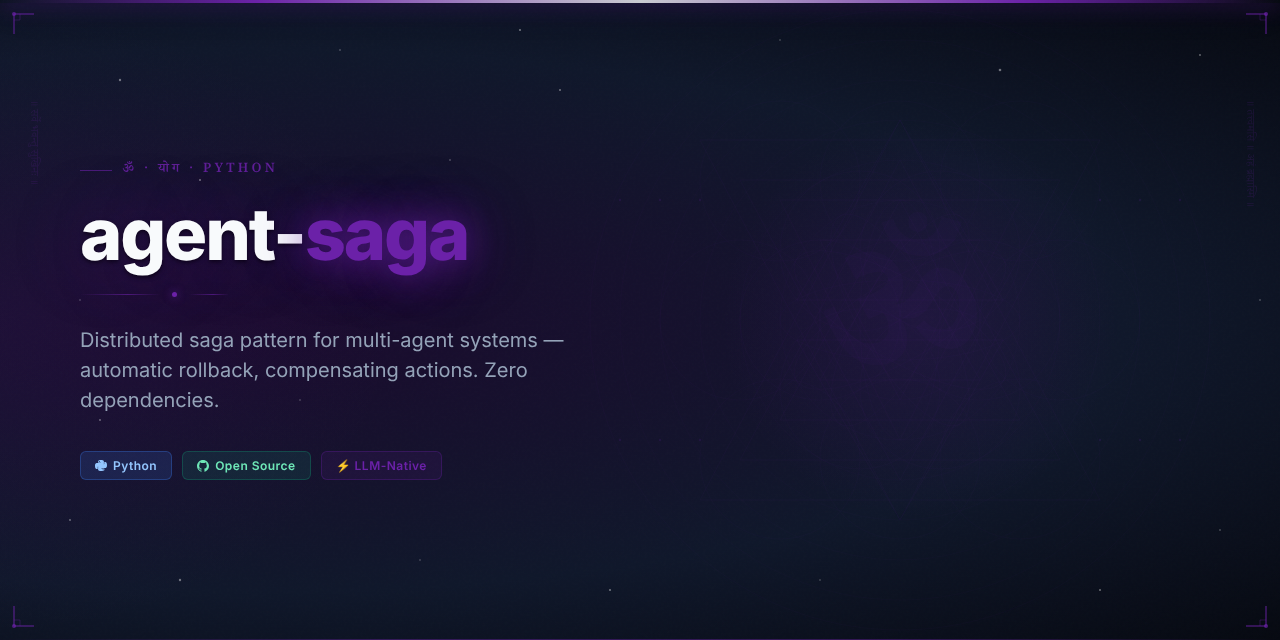
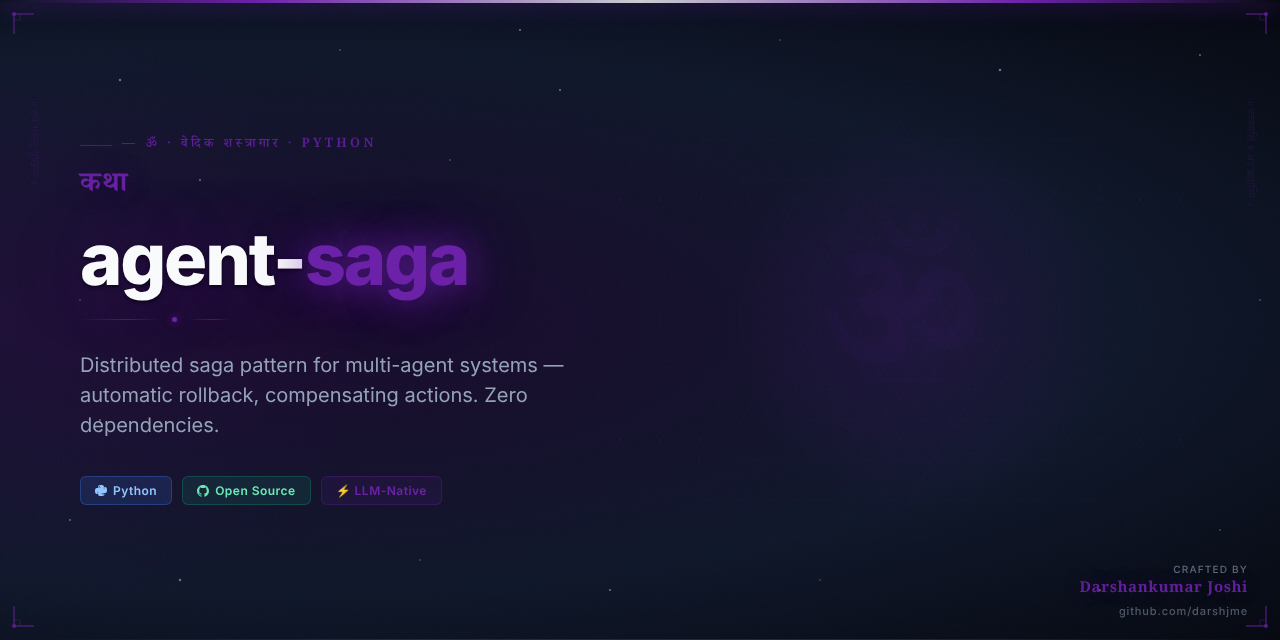
feat: add Vedic Arsenal hero image and updated README
Part of darshjme/arsenal — 100 production-grade Python libraries for LLM agents.
Vedic branding: ancient philosophy meets modern AI engineering.

diff --git a/README.md b/README.md
@@ -1,10 +1,12 @@
 <div align="center">
 
-<img src="assets/agent-saga-hero.png" alt="agent-saga — Vedic Arsenal" width="100%" />
+<img src="assets/agent-saga-hero.png" alt="agent-saga — Vedic Arsenal by Darshankumar Joshi" width="100%" />
 
 # 🔮 agent-saga
 
-### *कथा* — Katha — the sacred story, the saga of distributed dharma
+<h3><em>कथा</em></h3>
+
+> *Katha — the sacred story, the saga of distributed dharma*
 
 **Distributed saga pattern for multi-agent systems — automatic rollback, compensating actions. Zero dependencies.**
 
@@ -39,6 +41,19 @@ Or clone directly:
 git clone https://github.com/darshjme/agent-saga.git
 cd agent-saga
 pip install -e .
+```
+
+## How It Works
+
+```mermaid
+flowchart LR
+    A[Input] --> B[agent-saga]
+    B --> C{Process}
+    C -- Success --> D[Output]
+    C -- Error --> E[Handle / Retry]
+    E --> B
+    style B fill:#6b21a8,color:#fff
+    note["Saga — Zero Dependencies"]
 ```
 
 ## Quick Start
@@ -90,7 +105,7 @@ MIT — use freely, build freely.
 
 <div align="center">
 
-**Built with 🔮 by [Darshankumar Joshi](https://github.com/darshjme)**
+**Built with 🔮 by [Darshankumar Joshi](https://github.com/darshjme)** · [@thedarshanjoshi](https://twitter.com/thedarshanjoshi)
 
 *"कर्मण्येवाधिकारस्ते मा फलेषु कदाचन"*
 *Your right is to action alone, never to the fruits thereof.*
